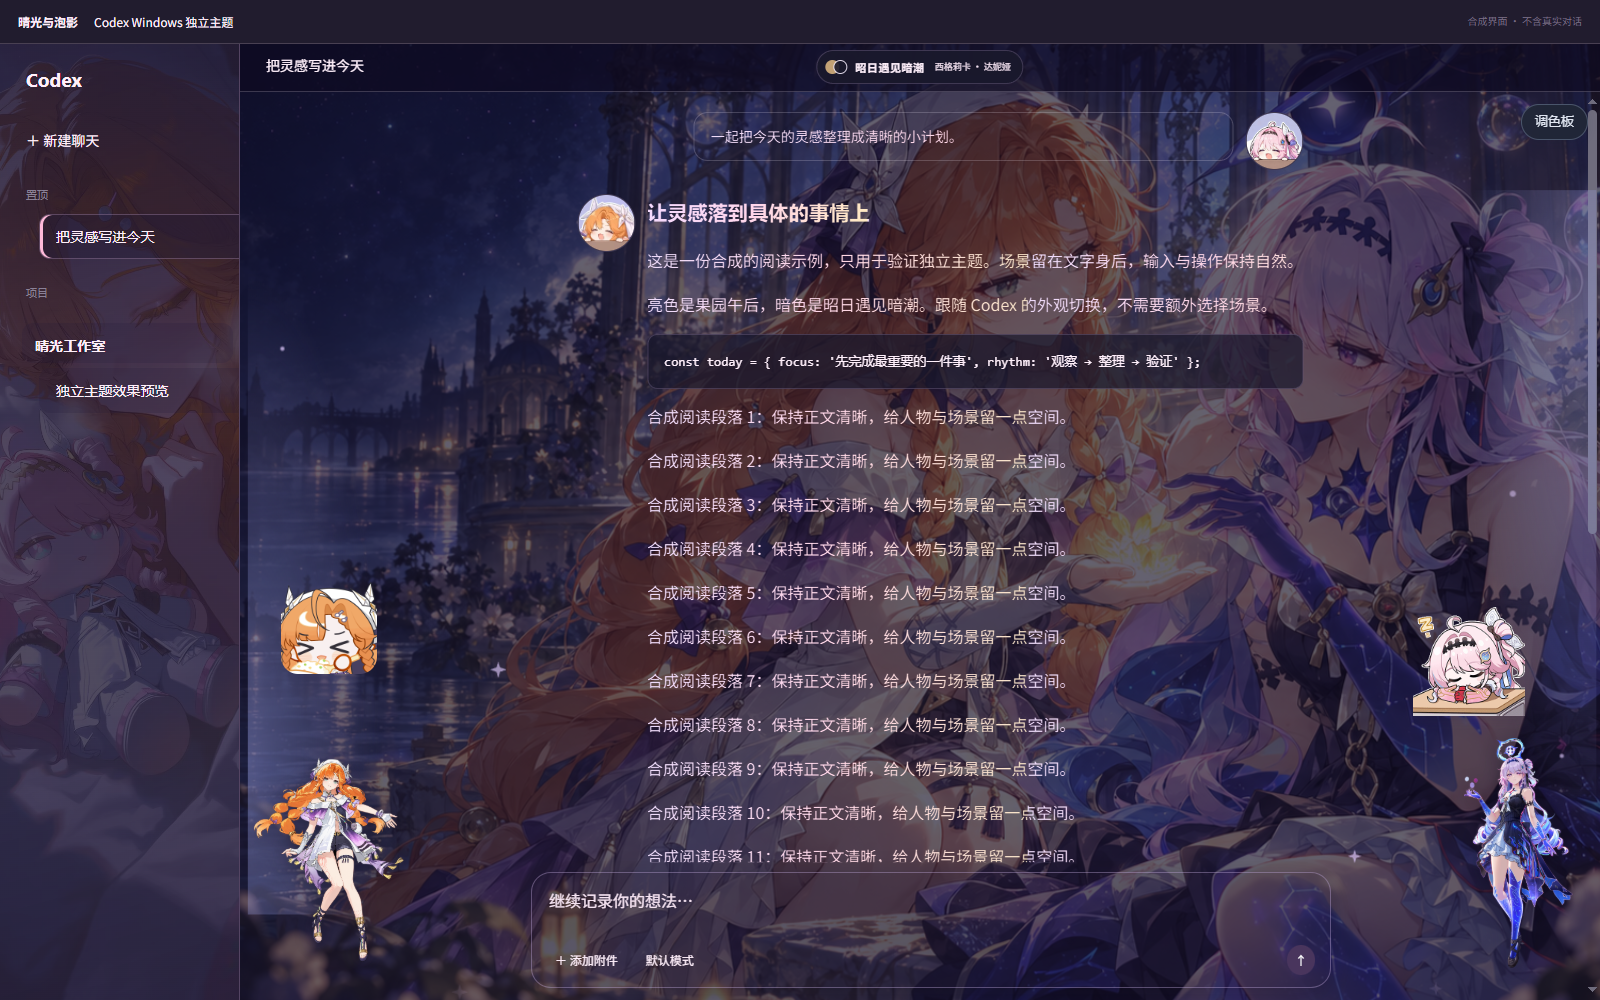
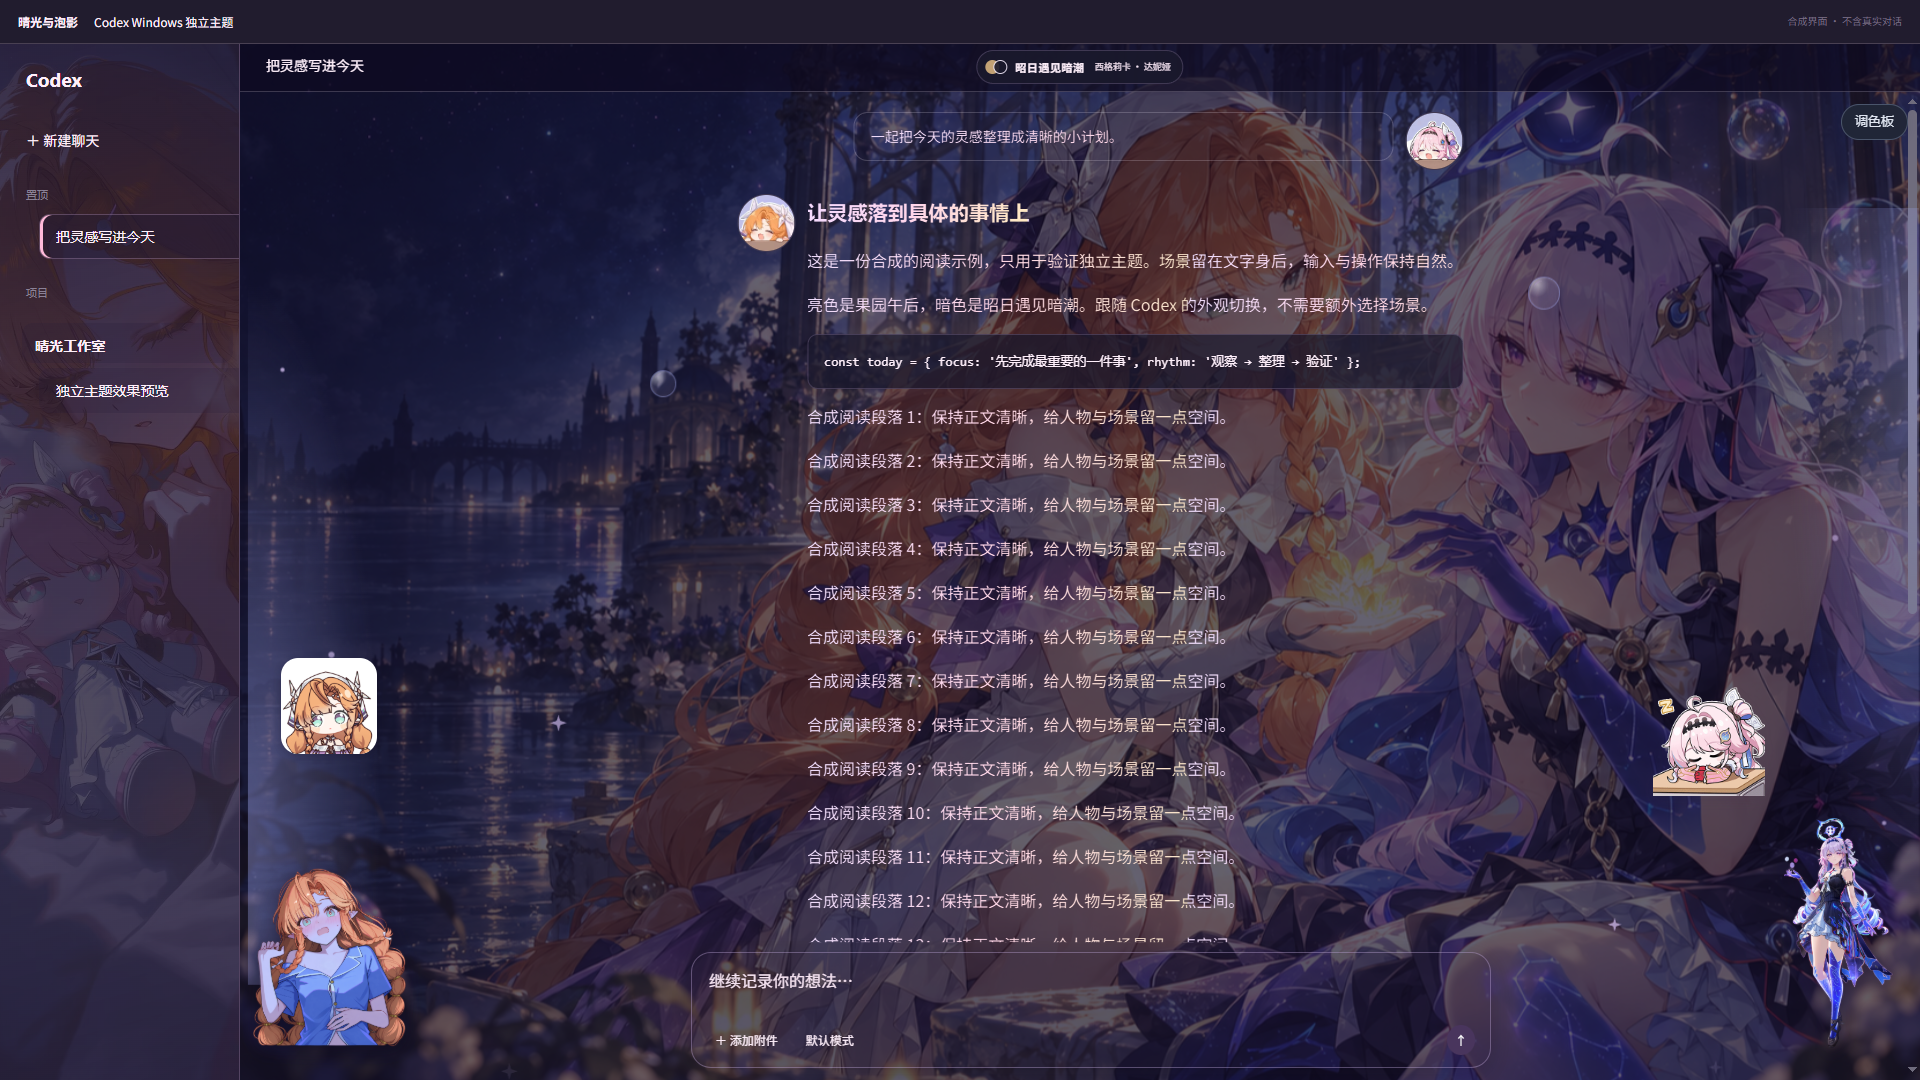
Add dark Xixi portrait and original animated emote for 1.1.1

diff --git a/theme/design/ambient.js b/theme/design/ambient.js
@@ -21,7 +21,8 @@ function mountSunlitAmbient(context) {
     try { return context.assetDataUrl?.(key) || context.assets?.[key] || ""; }
     catch { return ""; }
   }
-  const sources = { light: asset("denia-chibi"), dark: asset("denia-chibi-dark"), sigrika: asset("task-right-secondary"), xixiEmote: asset("sigrika-emote") };
+  const sources = { light: asset("denia-chibi"), dark: asset("denia-chibi-dark"), sigrika: asset("task-right-secondary"),
+    xixiEmote: asset("sigrika-emote"), xixiEmoteDark: asset("sigrika-emote-dark") || asset("sigrika-emote") };
   const partners = [
     { id: "xixi-emote", preferredSide: "left", animated: true },
     { id: "sigrika", preferredSide: "left", animated: false },
@@ -119,7 +120,7 @@ function mountSunlitAmbient(context) {
       if (partner.id === "sigrika" && (visibleDumplingPair || context.config?.avatars?.enabled === true)) {
         hidePartner(partner); status.suppressed.push(context.config?.avatars?.enabled === true ? "sigrika-message-avatars" : "sigrika-duplicate"); continue;
       }
-      const source = partner.id === "xixi-emote" ? sources.xixiEmote : partner.animated ? sources[dark ? "dark" : "light"] : sources.sigrika;
+      const source = partner.id === "xixi-emote" ? sources[dark ? "xixiEmoteDark" : "xixiEmote"] : partner.animated ? sources[dark ? "dark" : "light"] : sources.sigrika;
       if (!source || source === partner.failedSource) { hidePartner(partner); continue; }
       let position = null;
       if (partner.id === "xixi-emote") {
@@ -166,6 +167,7 @@ function mountSunlitAmbient(context) {
       setStyle(partner.node, "--sunlit-companion-size", position.width + "px");
       const compact = String(position.width < 80);
       if (partner.node.dataset.sunlitCompact !== compact) partner.node.dataset.sunlitCompact = compact;
+      if (partner.node.dataset.sunlitMode !== status.mode) partner.node.dataset.sunlitMode = status.mode;
       if (partner.image.getAttribute("src") !== source) partner.image.setAttribute("src", source);
       setHidden(partner.node, false);
       occupied.push(position);

diff --git a/theme/design/ambient.css b/theme/design/ambient.css
@@ -52,6 +52,10 @@ html[data-tessalume-motion="reduced"] .sunlit-ambient-host { display:none!import
 .sunlit-ambient-sigrika[data-sunlit-compact="true"]>img { width:92%;height:92%;margin:4%; }
 .sunlit-ambient-xixi-emote>img {width:100%;height:100%;margin:0;border-radius:18%;filter:none;animation:none;}
 .sunlit-ambient-xixi-emote::after {content:none;}
+.sunlit-ambient-xixi-emote[data-sunlit-mode="dark"]>img {
+  /* Preserve the original GIF's opaque white matte as a small rounded sticker. */
+  background:#fff;box-shadow:0 2px 9px rgba(7,4,20,.22);
+}
 html.sgk-theme #tessalume-theme-root [data-fusion-card="secondary"][data-fusion-card-layout="stacked"] [data-theme-part="task-card-art"],
 html.sgk-theme #tessalume-theme-root [data-fusion-card="secondary"][data-fusion-card-layout="stacked"] [data-theme-part="dumpling-companion"] {
   left:0!important;right:0!important;width:100%!important;height:calc((100% - 6px) / 2)!important;background-size:contain!important;

diff --git a/host/Scripts/install.js b/host/Scripts/install.js
@@ -13,7 +13,7 @@
         runtime?.themeId !== 'sunlit-tides.codex' || runtime?.fingerprint !== %%FINGERPRINT%%) {
       throw new Error('theme-acceptance');
     }
-    window.__SUNLIT_TIDES_HOST_MARKER__ = {id:'sunlit-tides.codex',version:'1.1.0',fingerprint:%%FINGERPRINT%%};
+    window.__SUNLIT_TIDES_HOST_MARKER__ = {id:'sunlit-tides.codex',version:'1.1.1',fingerprint:%%FINGERPRINT%%};
     return {installed:true,themeId:'sunlit-tides.codex'};
   })();
   gate.inFlight = job;

diff --git a/host/ThemeHost.cs b/host/ThemeHost.cs
@@ -89,8 +89,8 @@ internal sealed class ThemeHost : IAsyncDisposable
         var folder = Path.Combine(AppContext.BaseDirectory, "theme");
         using var manifest = JsonDocument.Parse(File.ReadAllText(Path.Combine(folder, "manifest.json")));
         if (manifest.RootElement.GetProperty("id").GetString() != "sunlit-tides.codex"
-            || manifest.RootElement.GetProperty("version").GetString() != "1.1.0"
-            || manifest.RootElement.GetProperty("config").GetProperty("designVersion").GetString() != "1.1.0") throw new InvalidDataException("manifest-invalid");
+            || manifest.RootElement.GetProperty("version").GetString() != "1.1.1"
+            || manifest.RootElement.GetProperty("config").GetProperty("designVersion").GetString() != "1.1.1") throw new InvalidDataException("manifest-invalid");
         string Expression(string file)
         {
             var path = Path.Combine(folder, file);

diff --git a/host/State.cs b/host/State.cs
@@ -3,7 +3,7 @@ using System.Text.Json;
 namespace SunlitTidesCodex;
 
 internal sealed record Settings(bool Enabled = true, int? LastPort = null, bool StartupEnabled = true);
-internal sealed record Health(bool Running, bool Enabled, string State, int AttachedPages, int? Port, DateTimeOffset UpdatedAt, string Version = "1.1.0", bool StartupEnabled = true);
+internal sealed record Health(bool Running, bool Enabled, string State, int AttachedPages, int? Port, DateTimeOffset UpdatedAt, string Version = "1.1.1", bool StartupEnabled = true);
 
 internal sealed class StateStore
 {

diff --git a/docs/ASSETS.md b/docs/ASSETS.md
@@ -7,9 +7,11 @@
 | 果园午后 | duo-orchard.jpg | 用户提供的 1280×1280 插画，原文件保留 |
 | 昭日遇见暗潮 | duo-night.png | 内置 imagegen 参考角色素材创作 |
 | 西西立绘 | sigrika-cutout.png | 用户原图经内置 imagegen 透明底处理 |
+| 暗面西西立绘 | sigrika-night-cutout.png | 用户夜色睡衣插画经内置 imagegen 移除背景与前景外来手臂，裁成半身透明图 |
 | 娅娅明暗立绘 | dsh/denia_character_right*.webp | DSH 上游原始素材 |
 | 娅娅明暗 Q 版 | dsh/denia_chibi*.gif | DSH 上游原始素材 |
 | 西西吃饭表情 | sigrika-emote.gif | 用户提供，原字节 GIF，仅修正附件后缀 |
+| 暗面西西表情 | sigrika-night-emote.gif | 用户提供，300×300、27 帧原字节 GIF，仅将错误的 .jpg 后缀改为 .gif |
 | 消息团子 | xixi-dumpling.jpg、yaya-dumpling.jpg | 用户提供 |
 | 导航与明信片 | sigrika-breeze.jpg、sigrika-dream.jpg、sigrika-train.jpg、duo-heart.jpg、duo-story.jpg、duo-evening.jpg | 用户提供 |
 | 果园图层 | layered/*.png | 原图 RGB + 手工贝塞尔透明遮罩 |
@@ -31,3 +33,13 @@
 > Edit the supplied square orchard illustration ONLY at both eyes of the pink-haired woman under the straw hat. Gently close both eyes with natural relaxed eyelid lines and eyelashes, no iris. Preserve exact facial position, size, head tilt, smile, all hair, shading, colors, clothes, apples and background. Orange-haired woman's already closed eyes stay unchanged. At 1280 square, eye centers approximately (806,315) and (750,374). Same framing, no beautification or new elements; this is an aligned blink keyframe.
 
 补底提示词保留在 ORCHARD-LAYERS.md。角色及插画权利不因分层或 AI 编辑转为本项目原创；参见根目录 NOTICE.md。
+
+## 1.1.1 暗面西西
+
[1 lines of base64/hex data omitted]
+
+使用内置 imagegen 编辑，实际提示词：
+
+> Use case: background-extraction. Edit the provided anime illustration into a clean transparent PNG desktop UI character standee. Preserve the orange-haired character's exact face, surprised expression, emerald eyes, braids, hair accessories, cool blue nighttime illumination, blue short-sleeve pajama shirt, pose, her own raised hand on the viewer left and her own hand across her waist. Output a WAIST-UP portrait crop, ending just below her own hand at the lower shirt area, no legs and no lower-body emphasis. Remove the entire bed, room, pillows, background, punctuation mark, and BOTH other-person foreground hands/arms; reconstruct only tiny hair/garment contours where those removed arms occluded the silhouette. Keep a natural clean edge to braids. Do not change the pose into standing, do not redesign clothes, do not add body parts, do not add text/name/border/shadow or any scenery. Maintain original crisp anime line art and blue-violet palette; genuine alpha transparency around isolated character, a tight portrait composition with 4% clear padding and all visible hair and her own raised hand inside frame. This is a nonsexual desktop companion illustration, focused on face and upper torso.
+
[1 lines of base64/hex data omitted]

diff --git a/installer/README.md b/installer/README.md
@@ -1,9 +1,9 @@
-独立 Windows 宿主与安装脚本
+独立 Windows 宿主与安装脚本
 =========================
 
 发行目录约定：`app/SunlitTidesCodex.exe`、`app/theme/manifest.json`、`app/theme/payload.js`、`app/theme/remove.js`、`app/media/startup.mp4`，以及当前 `installer/` 目录。主题素材和许可由发行包提供。无需安装 Tessalume、Node 或 .NET；自包含宿主仅使用 Windows 自带功能。
 
-安装：在 Windows PowerShell 运行 `powershell.exe -NoProfile -ExecutionPolicy Bypass -File .\installer\Install.ps1`。默认安装到 `%LOCALAPPDATA%\SunlitTidesCodex`，创建当前用户登录启动项和桌面、开始菜单主题快捷方式，首次安装随后启用主题；升级沿用主题开关。可用 `-SourceDirectory` 指定包含 EXE 与 theme 目录的发行目录；`-NoLaunch` 只安装，暂不运行。`-WhatIf` 只检查和预览。支持从 1.0.0 升级到 1.1.0，也可重新安装 1.1.0。升级先验证旧版本全部受管文件未被修改，再暂存并验证新包；请求旧宿主恢复默认并退出后，保留 `data/` 和退出前的 `settings.json`，完整旧目录留在 `%LOCALAPPDATA%\SunlitTidesCodex.backup.<版本>.<时间>.<随机值>`。失败会尝试恢复原目录，失败暂存保留供检查。额外文件留在完整备份中；若与新版路径冲突、存在连接点或受管文件已变更则停止，不能自动覆盖。`-NoLaunch` 保持退出前设置；首次安装后通过 `--launch` 启用主题；升级后通过 `--startup` 恢复宿主并尊重原先的主题启用或关闭选择。备份不自动清理，卸载也不会删除旧版本备份。
+安装：在 Windows PowerShell 运行 `powershell.exe -NoProfile -ExecutionPolicy Bypass -File .\installer\Install.ps1`。默认安装到 `%LOCALAPPDATA%\SunlitTidesCodex`，创建当前用户登录启动项和桌面、开始菜单主题快捷方式，首次安装随后启用主题；升级沿用主题开关。可用 `-SourceDirectory` 指定包含 EXE 与 theme 目录的发行目录；`-NoLaunch` 只安装，暂不运行。`-WhatIf` 只检查和预览。支持从 1.0.0 / 1.1.0 升级到 1.1.1，也可重新安装 1.1.1。升级先验证旧版本全部受管文件未被修改，再暂存并验证新包；请求旧宿主恢复默认并退出后，保留 `data/` 和退出前的 `settings.json`，完整旧目录留在 `%LOCALAPPDATA%\SunlitTidesCodex.backup.<版本>.<时间>.<随机值>`。失败会尝试恢复原目录，失败暂存保留供检查。额外文件留在完整备份中；若与新版路径冲突、存在连接点或受管文件已变更则停止，不能自动覆盖。`-NoLaunch` 保持退出前设置；首次安装后通过 `--launch` 启用主题；升级后通过 `--startup` 恢复宿主并尊重原先的主题启用或关闭选择。备份不自动清理，卸载也不会删除旧版本备份。
 
 登录 Windows 时，已启用的宿主自动以仅限回环地址的主题连接参数启动 Codex。主题快捷方式也会重新启用并打开 Codex。若 Codex 已运行且未带调试参数，宿主只激活现有窗口、提示完成任务后自行退出再从主题入口打开，不会关闭或重启 Codex。原生开始菜单项、旧任务栏固定项、协议和直接 EXE 冷启动不会被拦截，因此这些路径在 Codex 完全退出后重新启动，可能没有主题。Codex 更新后仍按当前商店包 manifest 重新发现入口。
 

diff --git a/README.md b/README.md
@@ -2,7 +2,7 @@
 
 西格莉卡 × 达妮娅的 Windows Codex Desktop 独立主题。亮色是「果园午后」，暗色是「昭日遇见暗潮」，跟随 Codex 的外观设置切换。安装和运行不需要 Tessalume、Node.js 或单独安装 .NET。
 
-第一版保留双侧立绘、吃饭动态表情、消息团子头像、插画侧栏、渐变文字、泡泡和调色板。果园场景使用独立人物、发束和裙摆图层；输入、滚动、后台及减少动态模式会暂停或回退。暗面的西西立绘与表情暂沿用现有素材。
+保留双侧立绘、动态表情、消息团子头像、插画侧栏、渐变文字、泡泡和调色板。果园场景使用独立人物、发束和裙摆图层；输入、滚动、后台及减少动态模式会暂停或回退。1.1.1 的暗面西西使用夜色睡衣半身立绘和独立的 27 帧 Q 版表情，亮色仍使用原来的立绘与吃饭表情。
 
 | 果园午后 · 亮色 | 昭日遇见暗潮 · 暗色 |
 | --- | --- |
@@ -13,7 +13,7 @@
 ## 安装
 
 1. 安装并登录 Windows 版 Codex Desktop。本版面向 Windows 11 x64。
-2. 解压 `SunlitTidesCodex-1.1.0-win-x64.zip`，双击 `Install.cmd`。已有 1.0.0 可直接升级，安装器保留设置及旧版完整备份。
+2. 解压 `SunlitTidesCodex-1.1.1-win-x64.zip`，双击 `Install.cmd`。已有 1.0.0 / 1.1.0 可直接升级，安装器保留设置及旧版完整备份。
 3. 使用桌面或开始菜单的「Codex · 晴光与泡影」启动。当前已有可连接的 Codex 时，会直接应用；无需退出聊天。
 
 安装位置是 `%LOCALAPPDATA%\SunlitTidesCodex`。安装器创建自己的桌面、开始菜单和当前用户登录启动项，不需要管理员权限。托盘常驻程序在登录 Windows 时启动带主题的 Codex，后续打开窗口或登录完成后自动加载。首次加载图片可能需要数秒。

diff --git a/docs/VALIDATION.md b/docs/VALIDATION.md
@@ -1,4 +1,16 @@
-# 1.1.0 验证记录
+# 1.1.1 验证记录
+
+日期：2026-10-23。本轮更换暗色左侧西西素材，沿用下述宿主与布局基线。
+
+- 独立主题构建检查 2/2；所有资产存在，打包后的主题可独立加载。
+- 实际分发 payload 浏览器集成 10/10：亮 → 暗 → 亮的立绘和表情逐字节对应各自来源，用户位置与大小设置保持不变。
+- 新表情保持原始 GIF 字节，300×300、27 帧；半身立绘按自然比例放入原有容器，不拉伸。
+- 1600px 窗口加 240px 右侧面板时，左右立绘、表情、正文和输入框没有交叠；合成界面截图已人工检查。
+- Windows PowerShell 5.1 安装器隔离验证 15/15，支持 1.0.0 / 1.1.0 升级与 1.1.1 重装，设置保留、旧版备份及失败回滚规则保持有效。
+
+截图使用合成对话，不含真实聊天内容。原生启动动画与冷启动验证边界沿用 1.1.0 记录。
+
+## 1.1.0 验证记录
 
 日期：2026-10-23，沿用下述 Windows / Codex 环境。
 

diff --git a/docs/RELEASE-1.1.1.md b/docs/RELEASE-1.1.1.md
@@ -1,0 +1,11 @@
+# 晴光与泡影 1.1.1
+
+暗色主题左侧的西西换成夜色睡衣半身立绘，上方换成用户提供的 Q 版小表情。
+
+- 透明立绘保留夜色和惊讶表情，移除房间背景与前景其他手臂；按自然比例展示。
+- 原文件实际为 300×300、27 帧 GIF，完整保留原动画。
+- 亮暗模式自动选择各自素材；亮色立绘与吃饭表情保持原样。
+- 沿用现有大小、位置、动效和面板避让设置。
+- 保留 Dragon 启动动画与播放开关，支持从 1.0.0 / 1.1.0 升级并备份旧版。
+
+Windows x64：解压安装包后运行 `Install.cmd`。`Restore.cmd` 恢复默认外观；素材来源、AI 编辑记录和许可分别见 NOTICE、docs/ASSETS.md。
